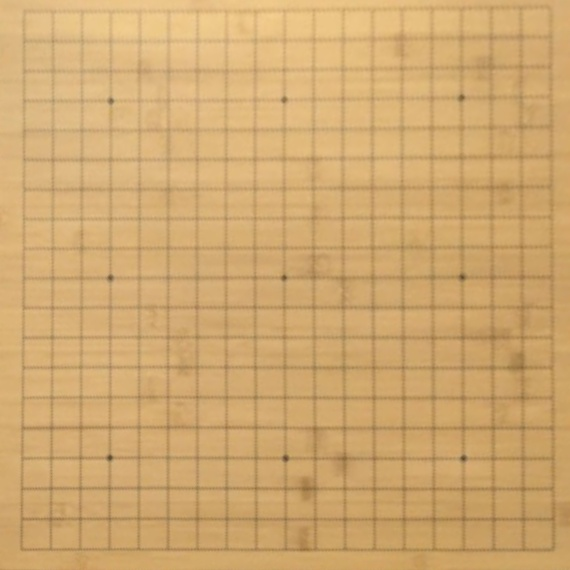
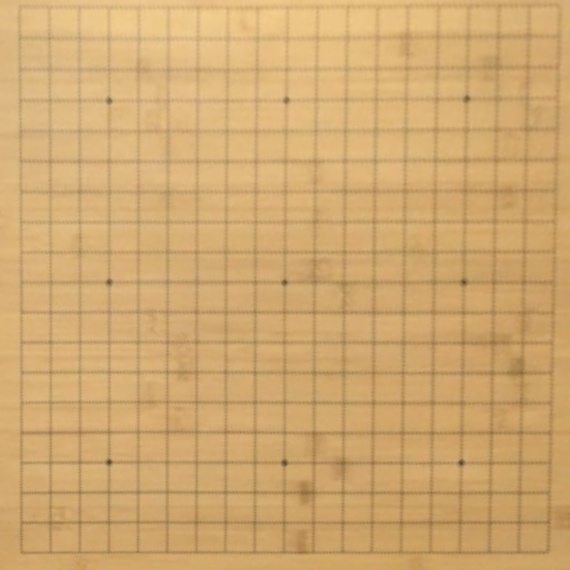
overlay features on original image

diff --git a/gridDetect.py b/gridDetect.py
@@ -12,19 +12,14 @@ def show_wait_destroy(winname, img):
     cv.moveWindow(winname, 600, 0)
     cv.waitKey(0)
     cv.destroyWindow(winname)
-def main(argv):
+def  process_analysis_grid(squareFile):
     # [load_image]
     # Check number of arguments
-    if len(argv) < 1:
-        print ('Not enough parameters')
-        print ('Usage:\nmorph_lines_detection.py < path_to_image >')
-        return -1
     # Load the image
-    src = cv.imread(argv[0], cv.IMREAD_COLOR)
-    src = cv.resize(src, (570,570), interpolation = cv.INTER_AREA)
+    src = cv.imread(squareFile, cv.IMREAD_COLOR)
     # Check if image is loaded fine
     if src is None:
-        print ('Error opening image: ' + argv[0])
+        print ('Error opening image: ' + squareFile)
         return -1
     # Show source image
     #cv.imshow("src", src)
@@ -104,6 +99,7 @@ def main(argv):
     contours=[cv.boundingRect(cnt) for cnt in contours]
     img = np.zeros((src.shape[0],src.shape[1],3), np.uint8)
     ### drawing rectangle for each contour for visualising
+    transparent_background = np.zeros((570, 580, 4))
     for cnt in contours:
         x,y,w,h=cnt
         #cv.rectangle(src,(x,y),(x+w,y+h),(0,255,0),2)
@@ -113,12 +109,15 @@ def main(argv):
         # this represents each individual area that will be evaulated
         cv.rectangle(src,(center_coords[0]-15,center_coords[1]-15),(center_coords[0]+15,center_coords[1]+15),(128,0,128),2)
         cv.circle(src, center_coords, 3, (255, 255, 255), -1)
+
+        cv.circle(transparent_background, center_coords, 5, (255, 255, 255), -1)
     
     show_wait_destroy("intersections", src)
+    show_wait_destroy("intersections", transparent_background)
 
-    filename = 'gridfiles/evaluation_grid.jpg'
-    cv.imwrite(filename, src) 
+    filename = 'gridfiles/evaluation_grid.png'
+    cv.imwrite(filename, transparent_background) 
     
     return 0
 if __name__ == "__main__":
-    main(sys.argv[1:])
+    process_analysis_grid(sys.argv[1:][0])

diff --git a/boardProcess.py b/boardProcess.py
@@ -4,6 +4,7 @@ from PIL import Image, ImageTk
 import cv2
 import numpy as np
 
+from gridDetect import process_analysis_grid
 SIDE_LENGTH = 570
 
 def image_resize(image, maxLength = 570, inter = cv2.INTER_AREA):
@@ -171,12 +172,14 @@ class PerspectiveTransform():
         self.cv_img = self.result_cv
         
     def saveImage(self):
-        cv2.imwrite("result/"+self.filename+"_res.jpg", self.result_cv)
+        filename = "result/"+self.filename+"_res.jpg"
+        cv2.imwrite(filename, self.result_cv)
         print(self.filename+" is saved!")
+        process_analysis_grid(filename)
 
     def load_analysis_grid(self):
-        filename = "gridfiles/evaluation_grid.jpg"
-        gridImage = cv2.imread(filename)
+        filename = "gridfiles/evaluation_grid.png"
+        gridImage = image_resize(cv2.imread(filename), maxLength = 570, inter = cv2.INTER_AREA)
         frame_circle = gridImage.copy()
 
         cv2.circle(frame_circle, tuple(self.coord[0]), 5, (0, 0, 255), -1)
@@ -188,13 +191,12 @@ class PerspectiveTransform():
         pts2 = np.float32([[0, 0], [SIDE_LENGTH-1, 0], [0, SIDE_LENGTH-1], [SIDE_LENGTH-1, SIDE_LENGTH-1]])
         matrix = cv2.getPerspectiveTransform(self.pts2, self.pts1)
         grid_result = cv2.warpPerspective(gridImage, matrix, (SIDE_LENGTH,SIDE_LENGTH))
-         
+        src = image_resize(cv2.imread(self.file), maxLength = 570, inter = cv2.INTER_AREA)
+        src = cv2.copyMakeBorder( src, 0, grid_result.shape[0]-src.shape[0], 0, grid_result.shape[1]-src.shape[1], cv2.BORDER_CONSTANT)
+        cv2.imshow("Perspective transformation", cv2.add(src,grid_result))
         cv2.imshow("Grid", grid_result)
-        #cv2.imshow("Perspective transformation", result_cv)
+
         
-        result_rgb = cv2.cvtColor(grid_result, cv2.COLOR_BGR2RGB)
-        tk_image = ImageTk.PhotoImage(image = Image.fromarray(result_rgb))
-        self.canvas.create_image(SIDE_LENGTH, SIDE_LENGTH, image=tk_image, anchor=NW)
 
 
 
